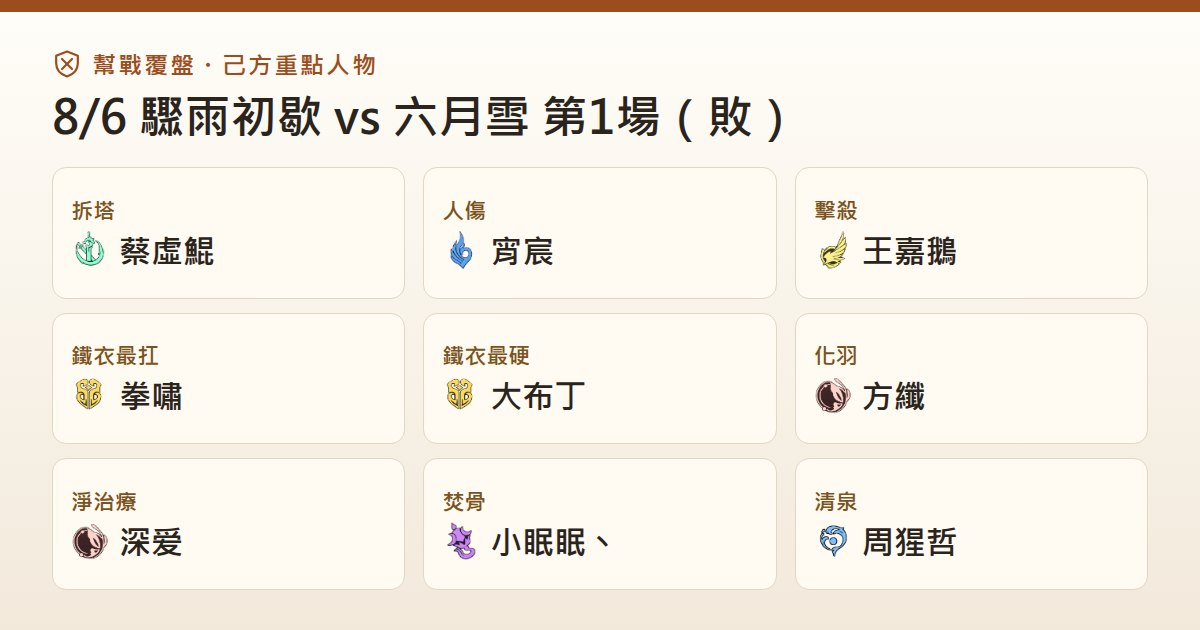
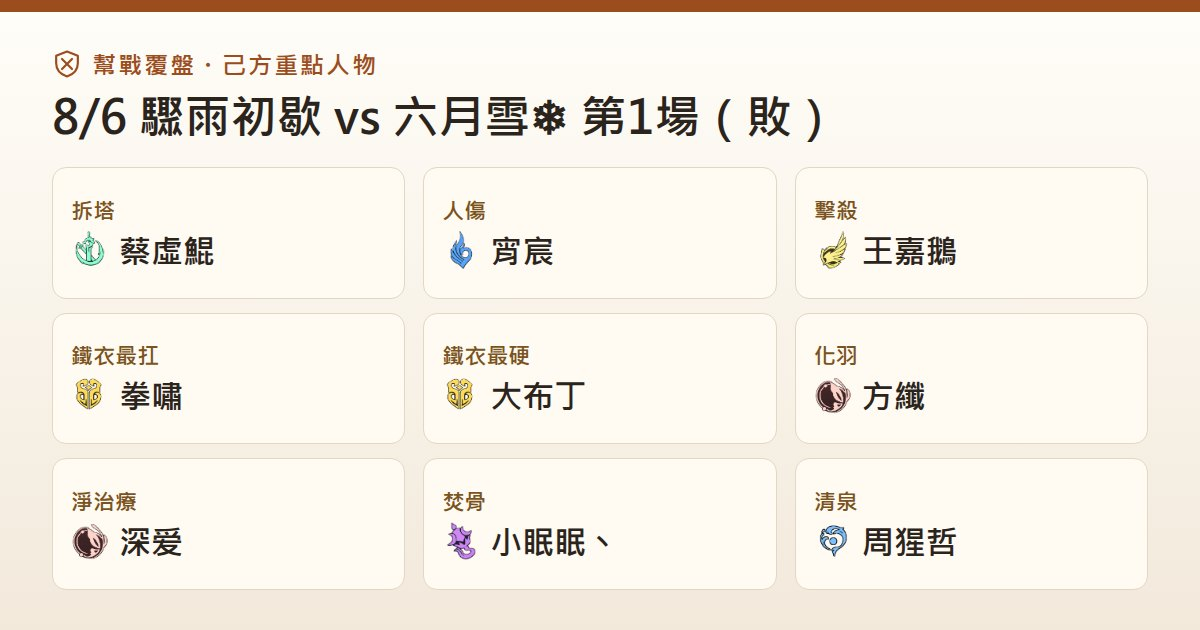
data: merge opponent 六月雪 into 六月雪❄

Changed region(s): [[0.4317, 0.1508, 0.7092, 0.2413]]

diff --git a/desktop/s/battle_1786068280379_cphtho.html b/desktop/s/battle_1786068280379_cphtho.html
@@ -3,12 +3,12 @@
 <head>
 <meta charset="UTF-8">
 <meta name="viewport" content="width=device-width, initial-scale=1.0">
-<title>8/6 驟雨初歇 vs 六月雪 第2場（勝）｜幫戰覆盤</title>
+<title>8/6 驟雨初歇 vs 六月雪❄ 第2場（勝）｜幫戰覆盤</title>
 <meta name="robots" content="noindex">
 <meta name="share-card-version" content="1">
 <meta property="og:type" content="website">
 <meta property="og:site_name" content="幫戰覆盤工具">
-<meta property="og:title" content="8/6 驟雨初歇 vs 六月雪 第2場（勝）">
+<meta property="og:title" content="8/6 驟雨初歇 vs 六月雪❄ 第2場（勝）">
 <meta property="og:description" content="拆塔 蔡虛鯤・人傷 王嘉鵝・擊殺 王嘉鵝・鐵衣最扛 拳嘯・鐵衣最硬 無礙・化羽 方纖・淨治療 深爱・焚骨 小眠眠丶・清泉 公主小狗">
 <meta property="og:url" content="https://justo-arch.github.io/jol-battle-review/desktop/s/battle_1786068280379_cphtho.html">
 <meta property="og:image" content="https://justo-arch.github.io/jol-battle-review/desktop/s/battle_1786068280379_cphtho.jpg">

diff --git a/desktop/s/battle_1786068254304_t0m0gj.html b/desktop/s/battle_1786068254304_t0m0gj.html
@@ -3,12 +3,12 @@
 <head>
 <meta charset="UTF-8">
 <meta name="viewport" content="width=device-width, initial-scale=1.0">
-<title>8/6 驟雨初歇 vs 六月雪 第1場（敗）｜幫戰覆盤</title>
+<title>8/6 驟雨初歇 vs 六月雪❄ 第1場（敗）｜幫戰覆盤</title>
 <meta name="robots" content="noindex">
 <meta name="share-card-version" content="1">
 <meta property="og:type" content="website">
 <meta property="og:site_name" content="幫戰覆盤工具">
-<meta property="og:title" content="8/6 驟雨初歇 vs 六月雪 第1場（敗）">
+<meta property="og:title" content="8/6 驟雨初歇 vs 六月雪❄ 第1場（敗）">
 <meta property="og:description" content="拆塔 蔡虛鯤・人傷 宵宸・擊殺 王嘉鵝・鐵衣最扛 拳嘯・鐵衣最硬 大布丁・化羽 方纖・淨治療 深爱・焚骨 小眠眠丶・清泉 周猩哲">
 <meta property="og:url" content="https://justo-arch.github.io/jol-battle-review/desktop/s/battle_1786068254304_t0m0gj.html">
 <meta property="og:image" content="https://justo-arch.github.io/jol-battle-review/desktop/s/battle_1786068254304_t0m0gj.jpg">

diff --git a/desktop/index.html b/desktop/index.html
@@ -5495,12 +5495,14 @@ const OWN_TEAM_FILTER_LABELS = {
 // 頁面一載入就會讀存檔並套用對照（loadState），必須宣告在 `let state` 之前
 // 同一幫會在不同戰報的名稱寫法（2026-10-19 使用者確認）；永夜與永夜星河⛱劍照維持分開
 // 永夜星河⛱劍照改名劍照霜寒⛱，用新名稱（2026-10-24 使用者確認）
+// 8/06 戰報的六月雪與 11/07 的六月雪❄是同一幫會，用有符號的名稱（2026-11-08 使用者確認）
 const TEAM_NAME_ALIASES = {
   '涅槃': '℘涅槃༄',
   '落雨梨花': '落雨梨花ꕥ',
   '緣心云醉': '緣心雲醉',
   '緣心': '緣心雲醉',
   '永夜星河⛱劍照': '劍照霜寒⛱',
+  '六月雪': '六月雪❄',
 };
 const PLAYER_COHORT_LABELS = {
   all: '所有職業',
